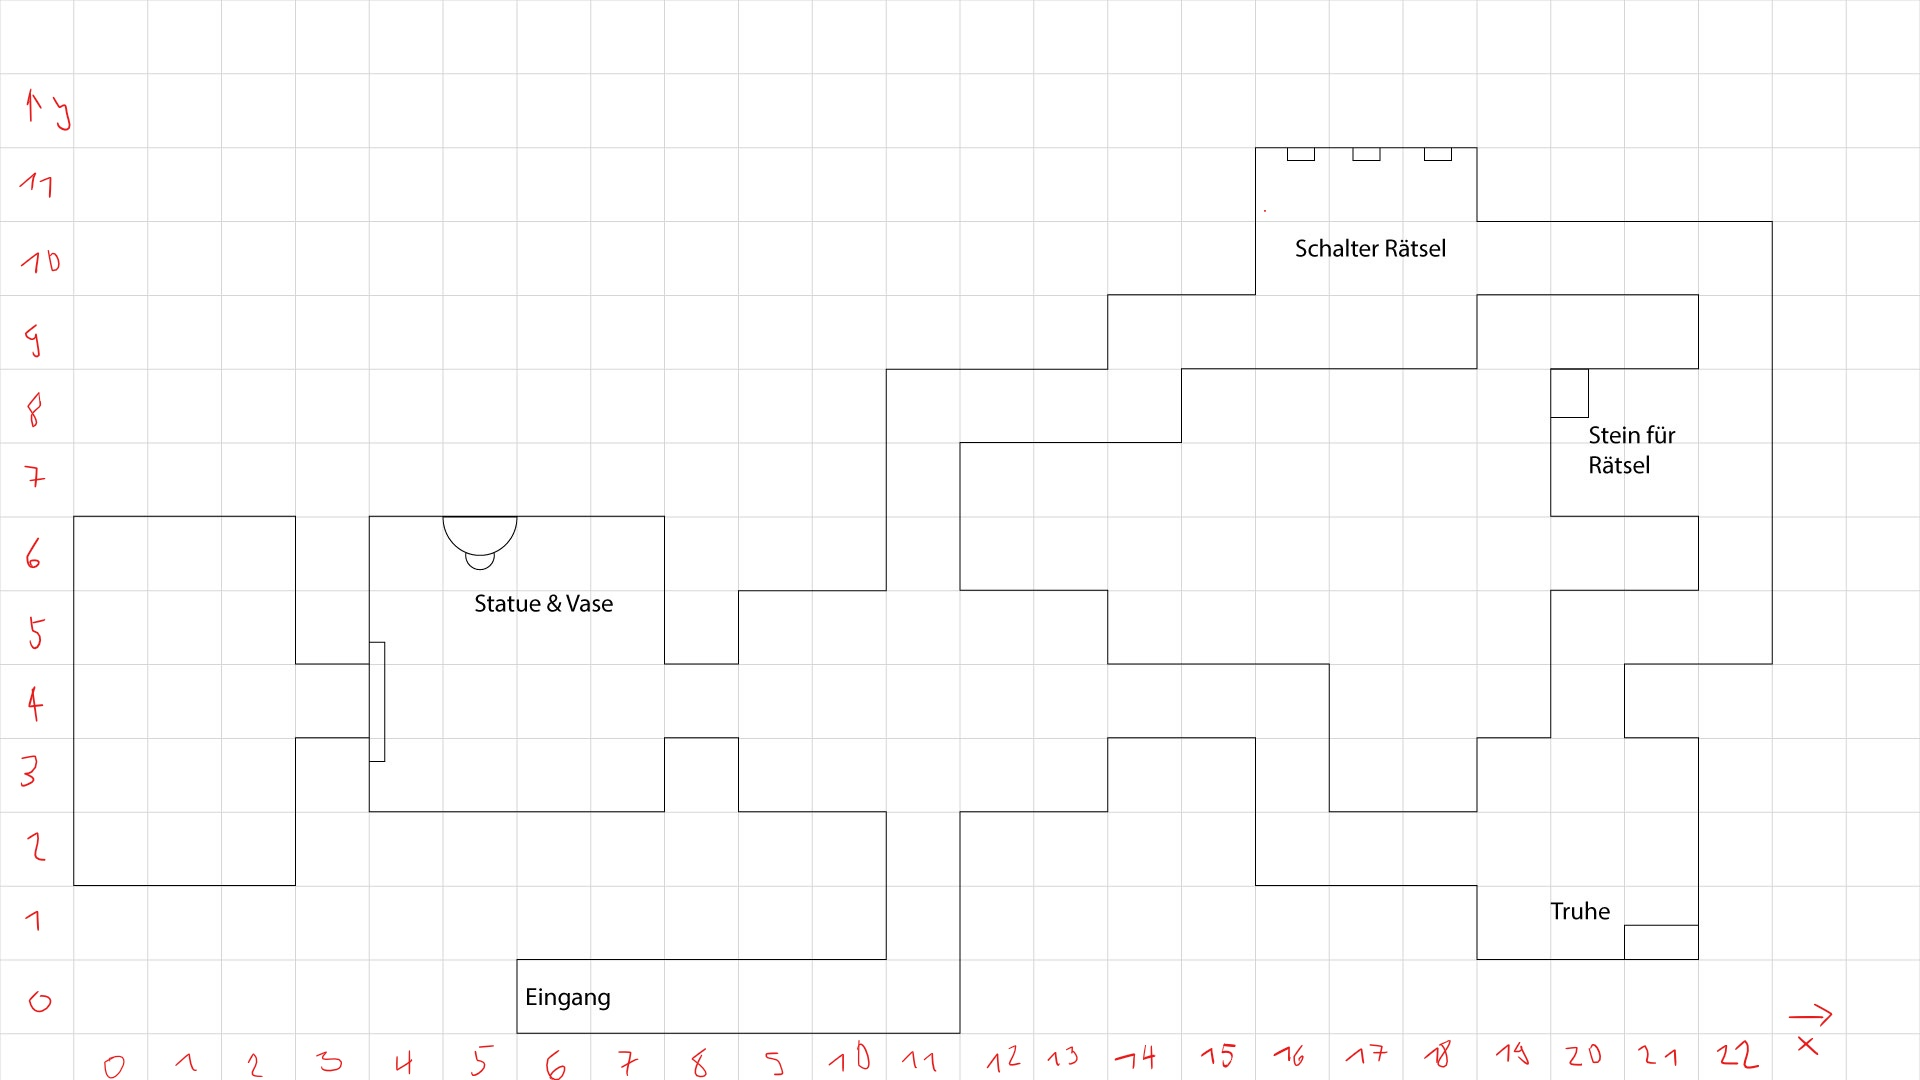
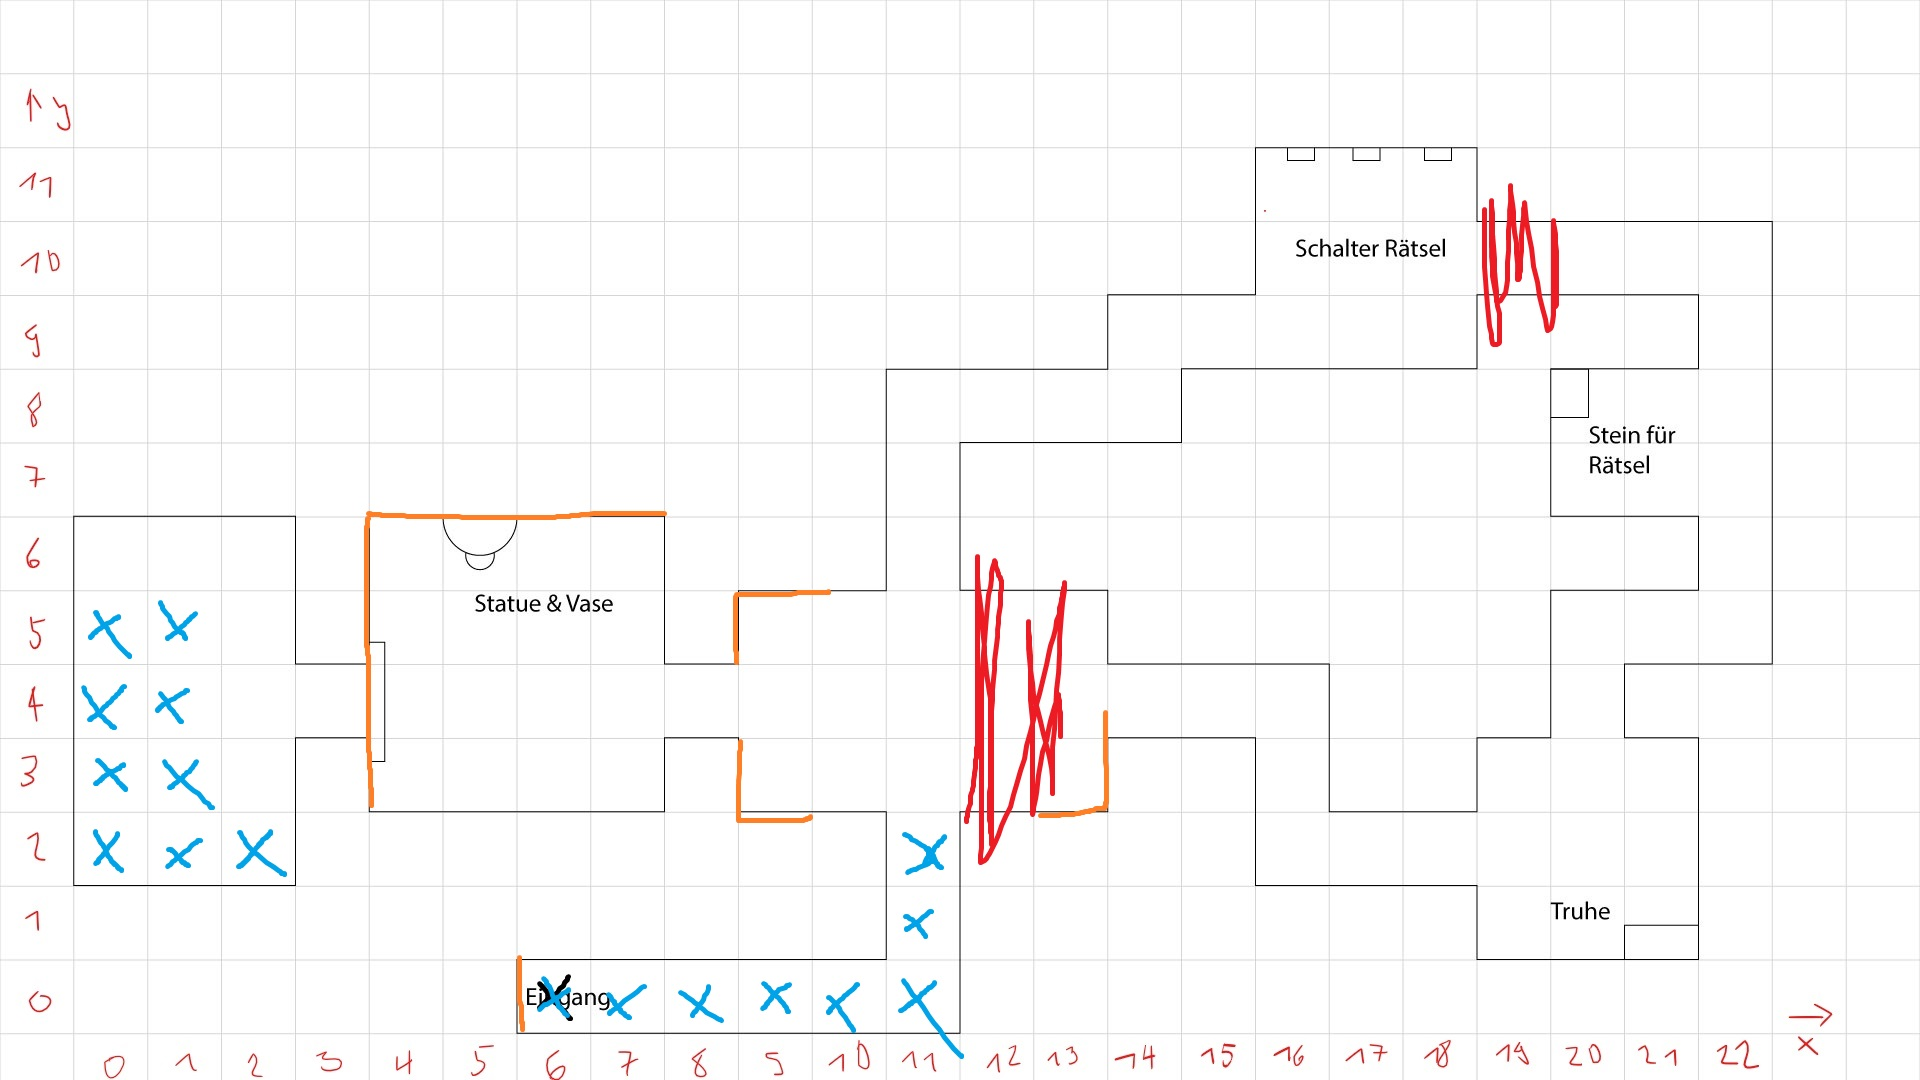
map as multidimensional array done

diff --git a/_Dungeon_Crawler/src/Map.java b/_Dungeon_Crawler/src/Map.java
@@ -1,24 +1,25 @@
 import java.lang.reflect.Array;
 
 public class Map {
-    private String[][][] map={  {{},{},{},{},{},{},{eingang},{x},{x},{x},{x},{x},{},{},{},{},{},{},{}},
-                                {{},{},{},{},{},{},{},{},{},{},{},{x},{},{},{},{},{},{},{}},
-                                {{x},{x},{x},{},{},{},{},{},{},{},{},{x},{},{},{},{},{},{},{}},
-                                {{x},{x},{x},{},{x},{x},{x},{x},{},{x},{x},{x},{},{},{},{},{},{},{}},
-                                {{x},{x},{x},{x},{bosstür},{x},{x},{x},{x},{x},{x},{x},{},{},{},{},{},{},{}},
-                                {{x},{x},{x},{},{x},{x},{x},{x},{},{x},{x},{x},{},{},{},{},{},{},{}},
 
-                                {{x},{x},{x},{},{x},{statue},{x},{x},{},{},{},{x},{},{},{},{},{},{},{}},
-                                {{},{},{},{},{},{},{},{},{},{},{},{x},{},{},{},{},{},{},{}},
-                                {{},{},{},{},{},{},{},{},{},{},{},{x},{x},{x},{x},{},{},{},{}},
-                                {{},{},{},{},{},{},{},{},{},{},{},{},{},{},{x},{x},{x},{x},{stein}},
-                                {{},{},{},{},{},{},{},{},{},{},{},{},{},{},{},{},{x},{x},{x}},
-                                {{},{},{},{},{},{},{},{},{},{},{},{},{},{},{},{},{schalter},{schalter},{schalter}}};
+    private String[][][] map={  /*0*/   {{null},{null},{null},{null},{null},{null},{"wall","6_0_1","wall","6_0_3"},{"wall","7_0_1","wand","7_0_3"},{"wall","8_0_1","wall","8_0_3"},{"wall","9_0_1","wall","9_0_3"},{"wall","10_0_1","wall","10_0_3"},{"11_0_0","corner_right","wall","11_0_3"},{null},{null},{null},{null},{null},{null},{null}},
+                                /*1*/   {{null},{null},{null},{null},{null},{null},{null},{null},{null},{null},{null},{"11_1_0","wall","11_1_2","wall"},{null},{null},{null},{null},{null},{null},{null}},
+                                /*2*/   {{"0_2_0","0_2_1","corner_right","corner_left"},{"1_2_0","1_2_1","wall","1_2_3"},{"2_2_0","corner_right","corner_left","2_2_3"},{null},{null},{null},{null},{null},{null},{null},{null},{"11_2_0","wall","11_2_2","wall"},{null},{null},{null},{null},{null},{null},{null}},
+                                /*3*/   {{"0_3_0","0_3_1","0_3_2","wall"},{"1_3_0","1_3_1","1_3_2","1_3_3"},{"2_3_0","2_3_1","2_3_2","2_3_3"},{null},{"4_3_0","4_3_1","corner_right","4_3_3"},{"5_3_0","5_3_1","wall","5_3_3"},{"6_3_0","6_3_1","wall","6_3_3"},{"7_3_0","corner_right","corner_left","7_3_3"},{null},{"9_3_0","9_3_1","corner_right","corner_left"},{"10_3_0","10_3_1","wall","10_3_3"},{"11_3_0","wall","11_3_2","11_3_3"},{null},{null},{null},{null},{null},{null},{null}},
+                                /*4*/   {{"0_4_0","0_4_1","0_4_2","wall"},{"1_4_0","1_4_1","1_4_2","1_4_3"},{"2_4_0","2_4_1","2_4_2","2_4_3"},{"3_4_0","3_4_1","3_4_2","3_4_3"},{"4_4_0","4_4_1","4_4_2","4_4_3"},{"5_4_0","5_4_1","5_4_2","5_4_3"},{"6_4_0","6_4_1","6_4_2","6_4_3"},{"7_4_0","7_4_1","7_4_2","7_4_3"},{"wall","8_4_1","wall","8_4_3"},{"9_4_0","9_4_1","9_4_2","9_4_3"},{"10_4_0","10_4_1","10_4_2","10_4_3"},{"11_4_0","11_4_1","11_4_2","11_4_3"},{null},{null},{null},{null},{null},{null},{null}},
+                                /*5*/   {{"0_5_0","0_5_1","0_5_2","wall"},{"1_5_0","1_5_1","1_5_2","1_5_3"},{"2_5_0","2_5_1","2_5_2","2_5_3"},{null},{"4_5_0","4_5_1","4_5_2","4_5_3"},{"5_5_0","5_5_1","5_5_2","5_5_3"},{"6_5_0","6_5_1","6_5_2","6_5_3"},{"7_5_0","wall","7_5_2","7_5_3"},{null},{"corner_left","9_5_1","9_5_2","corner_right"},{"wall","10_5_1","10_5_2","10_5_3"},{"11_5_0","wall","11_5_2","11_5_3"},{null},{null},{null},{null},{null},{null},{null}},
+                                /*6*/   {{"corner_left","0_6_1","0_6_2","corner_right"},{"wall","1_6_1","1_6_2","1_6_3"},{"corner_right","corner_left","2_6_2","2_6_3"},{null},{"corner_left","4_6_1","4_6_2","corner_right"},{null},{"wall","6_6_1","6_6_2","6_6_3"},{"corner_right","corner_left","7_6_2","7_6_3"},{null},{null},{null},{"11_6_0","wall","11_6_2","wall"},{null},{null},{null},{null},{null},{null},{null}},
+                                /*7*/   {{null},{null},{null},{null},{null},{null},{null},{null},{null},{null},{null},{"11_7_0","wall","11_7_2","wall"},{null},{null},{null},{null},{null},{null},{null}},
+                                /*8*/   {{null},{null},{null},{null},{null},{null},{null},{null},{null},{null},{null},{"corner_left","11_8_1","11_8_2","corner_right"},{"wall","12_8_1","wall","12_8_3"},{"wall","13_8_1","wall","13_8_3"},{"14_8_0","corner_right","corner_left","14_8_3"},{null},{null},{null},{null}},
+                                /*9*/   {{null},{null},{null},{null},{null},{null},{null},{null},{null},{null},{null},{null},{null},{null},{"corner_left","14_9_1","14_9_2","corner_right"},{"wall","15_9_1","wall","15_9_3"},{"16_9_0","16_9_1","wall","16_9_3"},{"17_9_0","17_9_1","wall","17_9_3"},{null}},
+                                /*10*/  {{null},{null},{null},{null},{null},{null},{null},{null},{null},{null},{null},{null},{null},{null},{null},{null},{"16_10_0","16_10_1","16_10_2","wall"},{"17_10_0","17_10_1","17_10_2","17_10_3"},{"18_10_0","wall","18_10_2","18_10_3"}},
+                                /*11*/  {{null},{null},{null},{null},{null},{null},{null},{null},{null},{null},{null},{null},{null},{null},{null},{null},{"16_11_0","16_11_1","16_11_2","wall"},{"17_11_0","17_11_1","17_11_2","17_11_3"},{"18_11_0","wall","18_11_2","18_11_3"}}
+                                };
 
     public String getImageName(int x, int y, int viewDirection){
-        String imageName = "";
-
-        return imageName;
+        String imageName = "", fileType = ".png";
+        imageName = map[y][x][viewDirection];
+        return imageName + fileType;
     }
 
     public void setMap(String[][][] mapArray){
